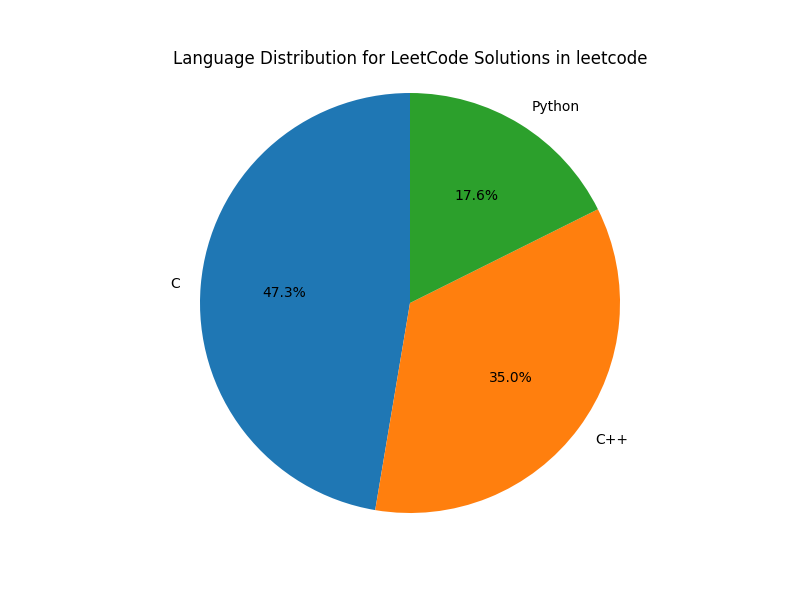
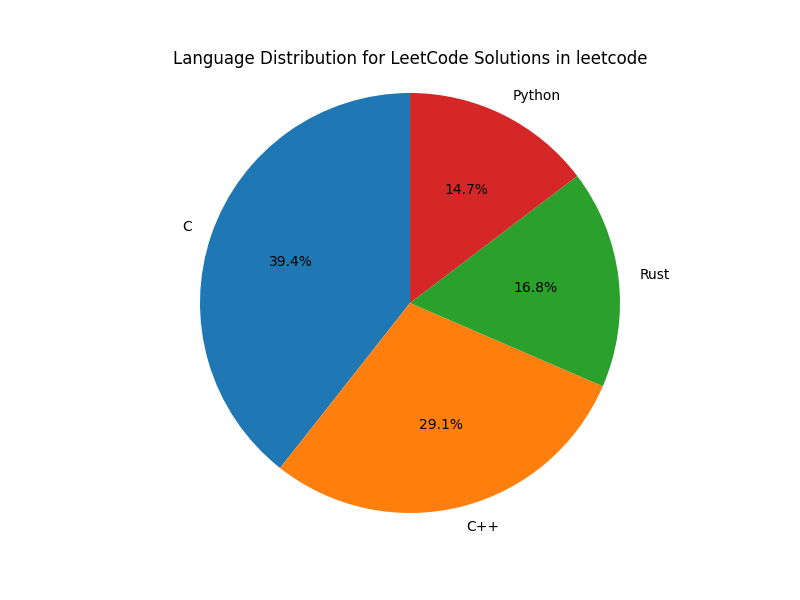
Update readme.öd

diff --git a/readme.md b/readme.md
@@ -4,11 +4,11 @@ This repository contains my solutions to Leetcode problems. I have solved these 
 
 ## Problems
 
-| #   | Title                                                                                                                           | Solution                                                                                                                                                                                                                                             | Difficulty |
-| --- | ------------------------------------------------------------------------------------------------------------------------------- | ---------------------------------------------------------------------------------------------------------------------------------------------------------------------------------------------------------------------------------------------------- | :--------: |
-| 1   | [Two Sum](https://leetcode.com/problems/two-sum/)                                                                               | [`C`](https://github.com/burakssen/leetcode/tree/C/1.%20Two%20Sum) [`C++`](https://github.com/burakssen/leetcode/tree/C++/1.%20Two%20Sum) [`Python`](https://github.com/burakssen/leetcode/tree/python/1.%20Two%20Sum)                               |     🟩     |
-| 2   | [Add Two Numbers](https://leetcode.com/problems/add-two-numbers/)                                                               | [`C`](https://github.com/burakssen/leetcode/tree/C/2.%20Add%20Two%20Numbers) [`C++`](https://github.com/burakssen/leetcode/tree/C++/2.%20Add%20Two%20Numbers) [`Python`](https://github.com/burakssen/leetcode/tree/python/2.%20Add%20Two%20Numbers) |     🟩     |
-| 3   | [Longest Substring Without Repeating Characters](https://leetcode.com/problems/longest-substring-without-repeating-characters/) | [`C`](https://github.com/burakssen/leetcode/tree/C/3.%20Longest%20Substring%20Without%20Repeating%20Characters) [`C++`](https://github.com/burakssen/leetcode/tree/C++/3.%20Longest%20Substring%20Without%20Repeating%20Characters)                  |     🟩     |
+| #   | Title                                                                                                                           | Solution                                                                                                                                                                                                                                                                                                                                | Difficulty |
+| --- | ------------------------------------------------------------------------------------------------------------------------------- | --------------------------------------------------------------------------------------------------------------------------------------------------------------------------------------------------------------------------------------------------------------------------------------------------------------------------------------- | :--------: |
+| 1   | [Two Sum](https://leetcode.com/problems/two-sum/)                                                                               | [`C`](https://github.com/burakssen/leetcode/tree/C/1.%20Two%20Sum) [`C++`](https://github.com/burakssen/leetcode/tree/C++/1.%20Two%20Sum) [`Python`](https://github.com/burakssen/leetcode/tree/python/1.%20Two%20Sum) [`Rust`](https://github.com/burakssen/leetcode/tree/rust/1.%20Two%20Sum)                                         |     🟩     |
+| 2   | [Add Two Numbers](https://leetcode.com/problems/add-two-numbers/)                                                               | [`C`](https://github.com/burakssen/leetcode/tree/C/2.%20Add%20Two%20Numbers) [`C++`](https://github.com/burakssen/leetcode/tree/C++/2.%20Add%20Two%20Numbers) [`Python`](https://github.com/burakssen/leetcode/tree/python/2.%20Add%20Two%20Numbers) [`Rust`](https://github.com/burakssen/leetcode/tree/rust/2.%20Add%20Two%20Numbers) |     🟩     |
+| 3   | [Longest Substring Without Repeating Characters](https://leetcode.com/problems/longest-substring-without-repeating-characters/) | [`C`](https://github.com/burakssen/leetcode/tree/C/3.%20Longest%20Substring%20Without%20Repeating%20Characters) [`C++`](https://github.com/burakssen/leetcode/tree/C++/3.%20Longest%20Substring%20Without%20Repeating%20Characters)                                                                                                     |     🟩     |
 
 # Current Language Usage Distribution
 
@@ -17,5 +17,6 @@ This repository contains my solutions to Leetcode problems. I have solved these 
 | C        | 3               |
 | C++      | 3               |
 | Python   | 2               |
+| Rust     | 2               |
 
 ![Language Distribution](language_distribution.png)
